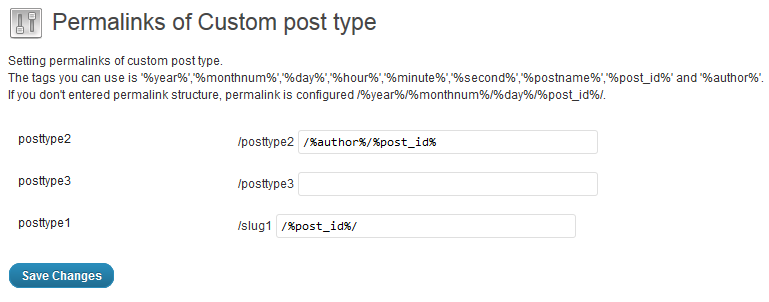
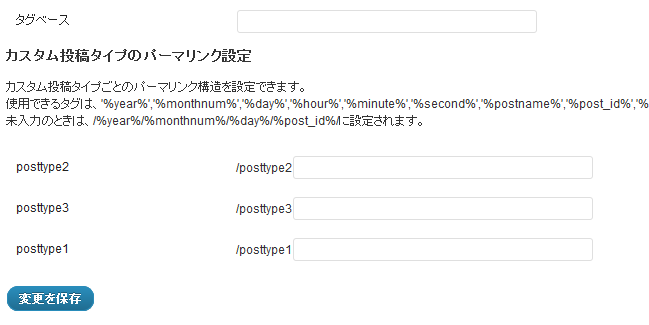
git-svn-id: http://plugins.svn.wordpress.org/custom-post-type-permalinks/trunk@475814 b8457f37-d9ea-0310-8a92-e5e31aec5664

diff --git a/custom-post-type-permalinks.php b/custom-post-type-permalinks.php
@@ -5,7 +5,7 @@ Plugin URI: http://www.torounit.com
 Description:  Add post archives of custom post type and customizable permalinks.
 Author: Toro-Unit
 Author URI: http://www.torounit.com/plugins/custom-post-type-permalinks/
-Version: 0.7
+Version: 0.7.1
 */
 
 
@@ -55,8 +55,6 @@ function get_taxonomy_parents( $id, $taxonomy = 'category', $link = false, $sepa
 		$chain .= $name.$separator;
 	return $chain;
 }
-
-
 
 
 
@@ -159,10 +157,6 @@ class Custom_Post_Type_Permalinks {
 			$wp_rewrite->add_rewrite_tag('%post_type%', '([^/]+)','post_type=');
 			$wp_rewrite->add_permastruct($post_type,$permalink, false);
 
-			if(!$slug or $slug != $post_type){
-				$wp_rewrite->add_rewrite_tag('%$slug%', '([^/]+)',"post_type=$post_type&slug=");
-				$wp_rewrite->add_permastruct($post_type,str_replace("%post_type%","%$slug%",$permalink), false);
-			}
 
 
 		endforeach;
@@ -193,14 +187,14 @@ class Custom_Post_Type_Permalinks {
 		global $wp_rewrite;
 
 		$newlink = $wp_rewrite->get_extra_permastruct($post->post_type);
-		$slug = get_post_type_object($post->post_type)->rewrite["slug"];
-		$newlink = str_replace("%$slug%", $slug, $newlink);
 	
 		$newlink = str_replace("%post_type%", $post->post_type, $newlink);
 		$newlink = str_replace("%post_id%", $post->ID, $newlink);
 		if(!$leavename){
 			$newlink = str_replace("%$post->post_type%", $post->post_name, $newlink);
 		}
+
+		$newlink = str_replace("%postname%", $post->post_name, $newlink);
 		
 
 		//カスタム分類の対応
@@ -345,15 +339,16 @@ class Custom_Post_Type_Permalinks_Admin {
 
 	function add_hooks(){
 		add_action('init', array(&$this,'load_textdomain'));
-		add_action('admin_init', array(&$this,'settings_api_init'));
+		add_action('admin_init', array(&$this,'settings_api_init'),10);
+		add_action('admin_init', array(&$this,'set_rules'),50);
 	
 	}
+	
  	function load_textdomain(){
 		load_plugin_textdomain('cptp',false,'custom-post-type-permalinks');	
 	}
 	
- 
-	function settings_api_init() {
+	function settings_api_init(){
 	 	add_settings_section('setting_section',
 			__("Permalink Setting for custom post type","cptp"),
 			 array(&$this,'setting_section_callback_function'),
@@ -364,7 +359,8 @@ class Custom_Post_Type_Permalinks_Admin {
 		$post_types = get_post_types(array("_builtin"=>false,"publicly_queryable"=>true));
 		foreach ($post_types as $post_type):
 			if(isset($_POST["submit"])){
-				update_option($post_type."_structure",esc_attr($_POST[$post_type."_structure"]));
+				if( strpos($_POST["_wp_http_referer"],"options-permalink.php") !== FALSE )
+					update_option($post_type."_structure",esc_attr($_POST[$post_type."_structure"]));
 			}
 
 	 		add_settings_field($post_type."_structure",
@@ -377,6 +373,11 @@ class Custom_Post_Type_Permalinks_Admin {
 		 	register_setting('permalink',$post_type."_structure");
 		endforeach;
 	
+	}
+	
+	function set_rules(){
+		global $wp_rewrite;
+		$wp_rewrite->flush_rules();		
 	}
  
  
